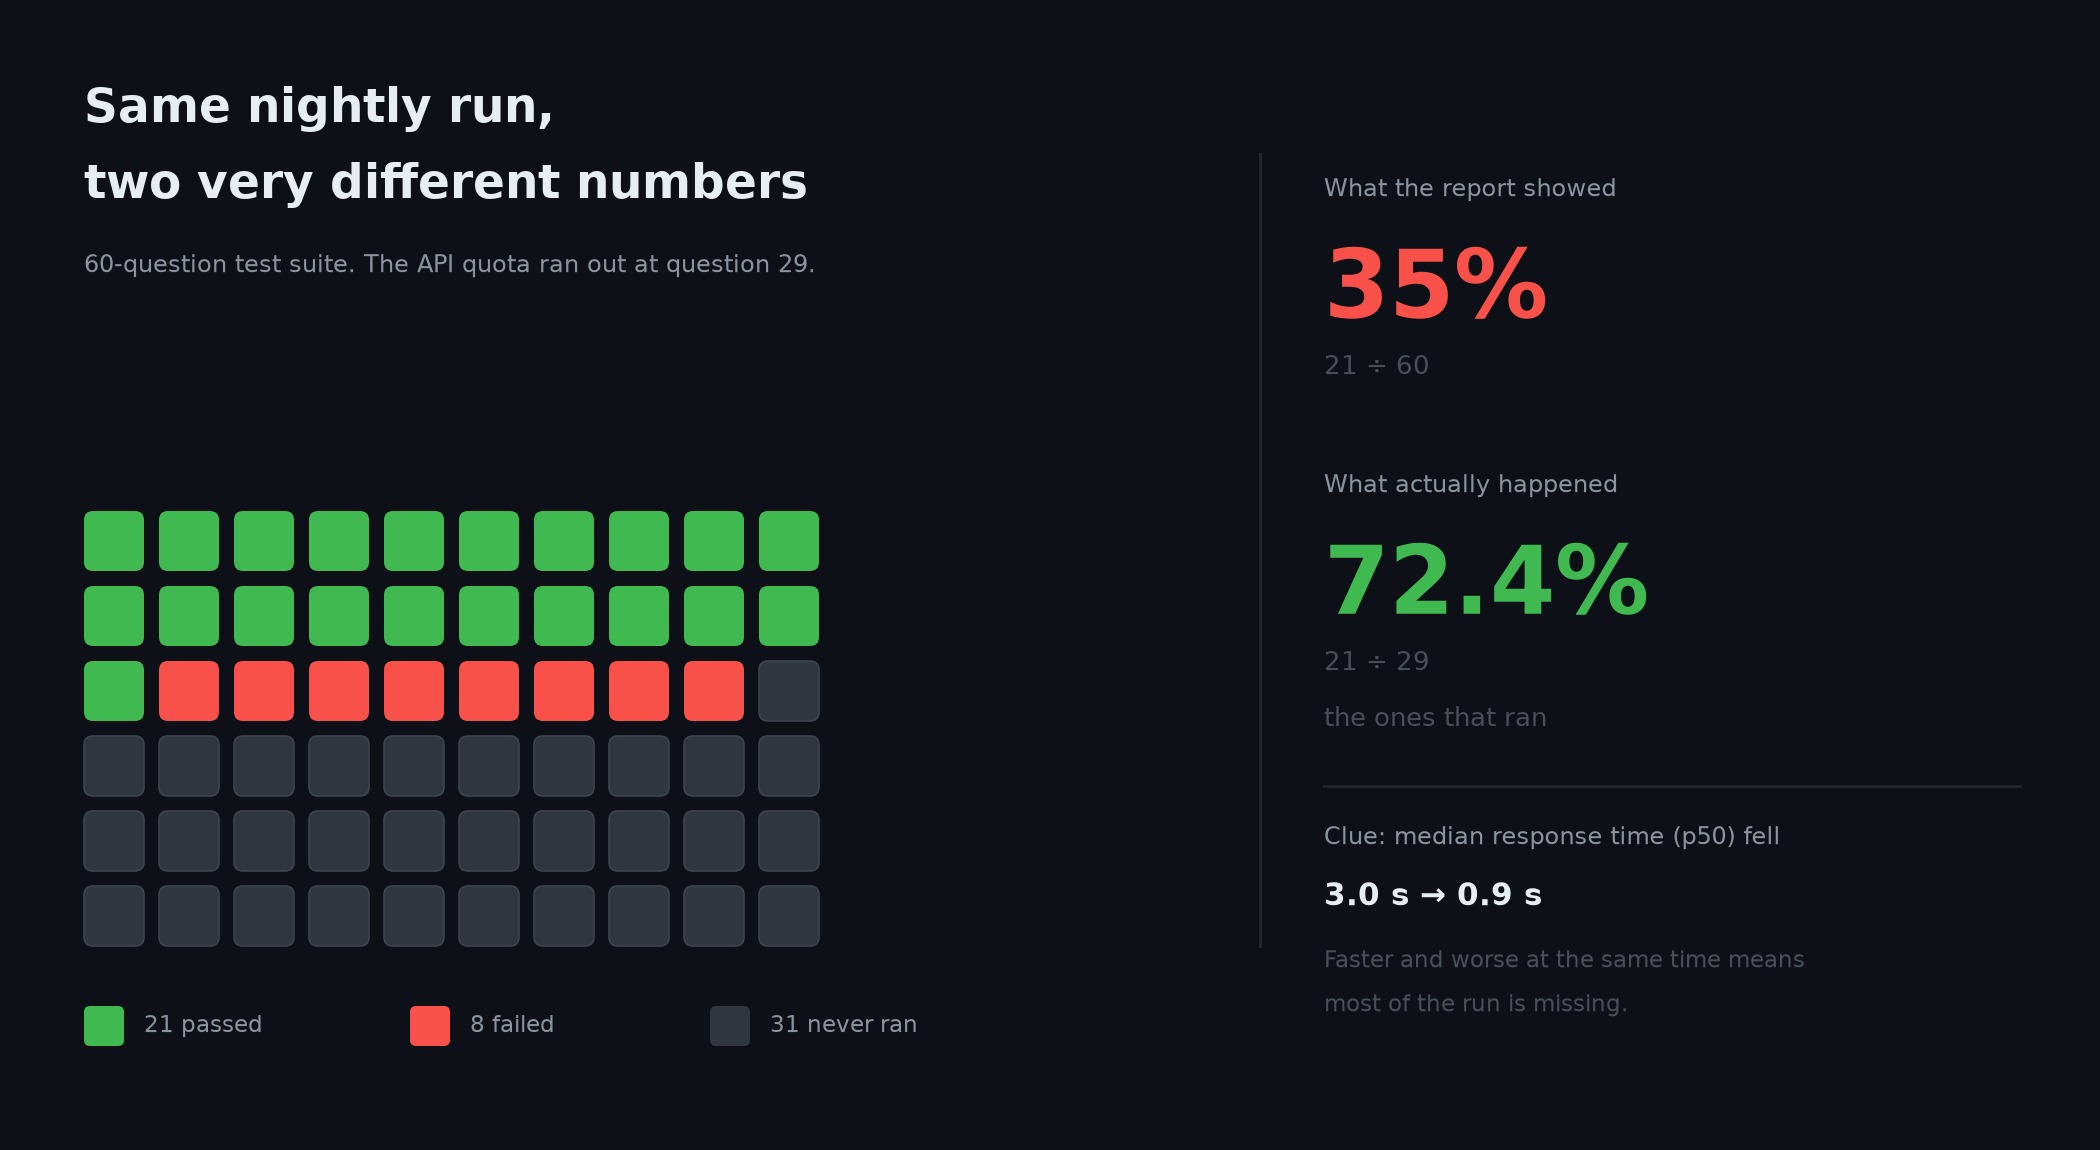
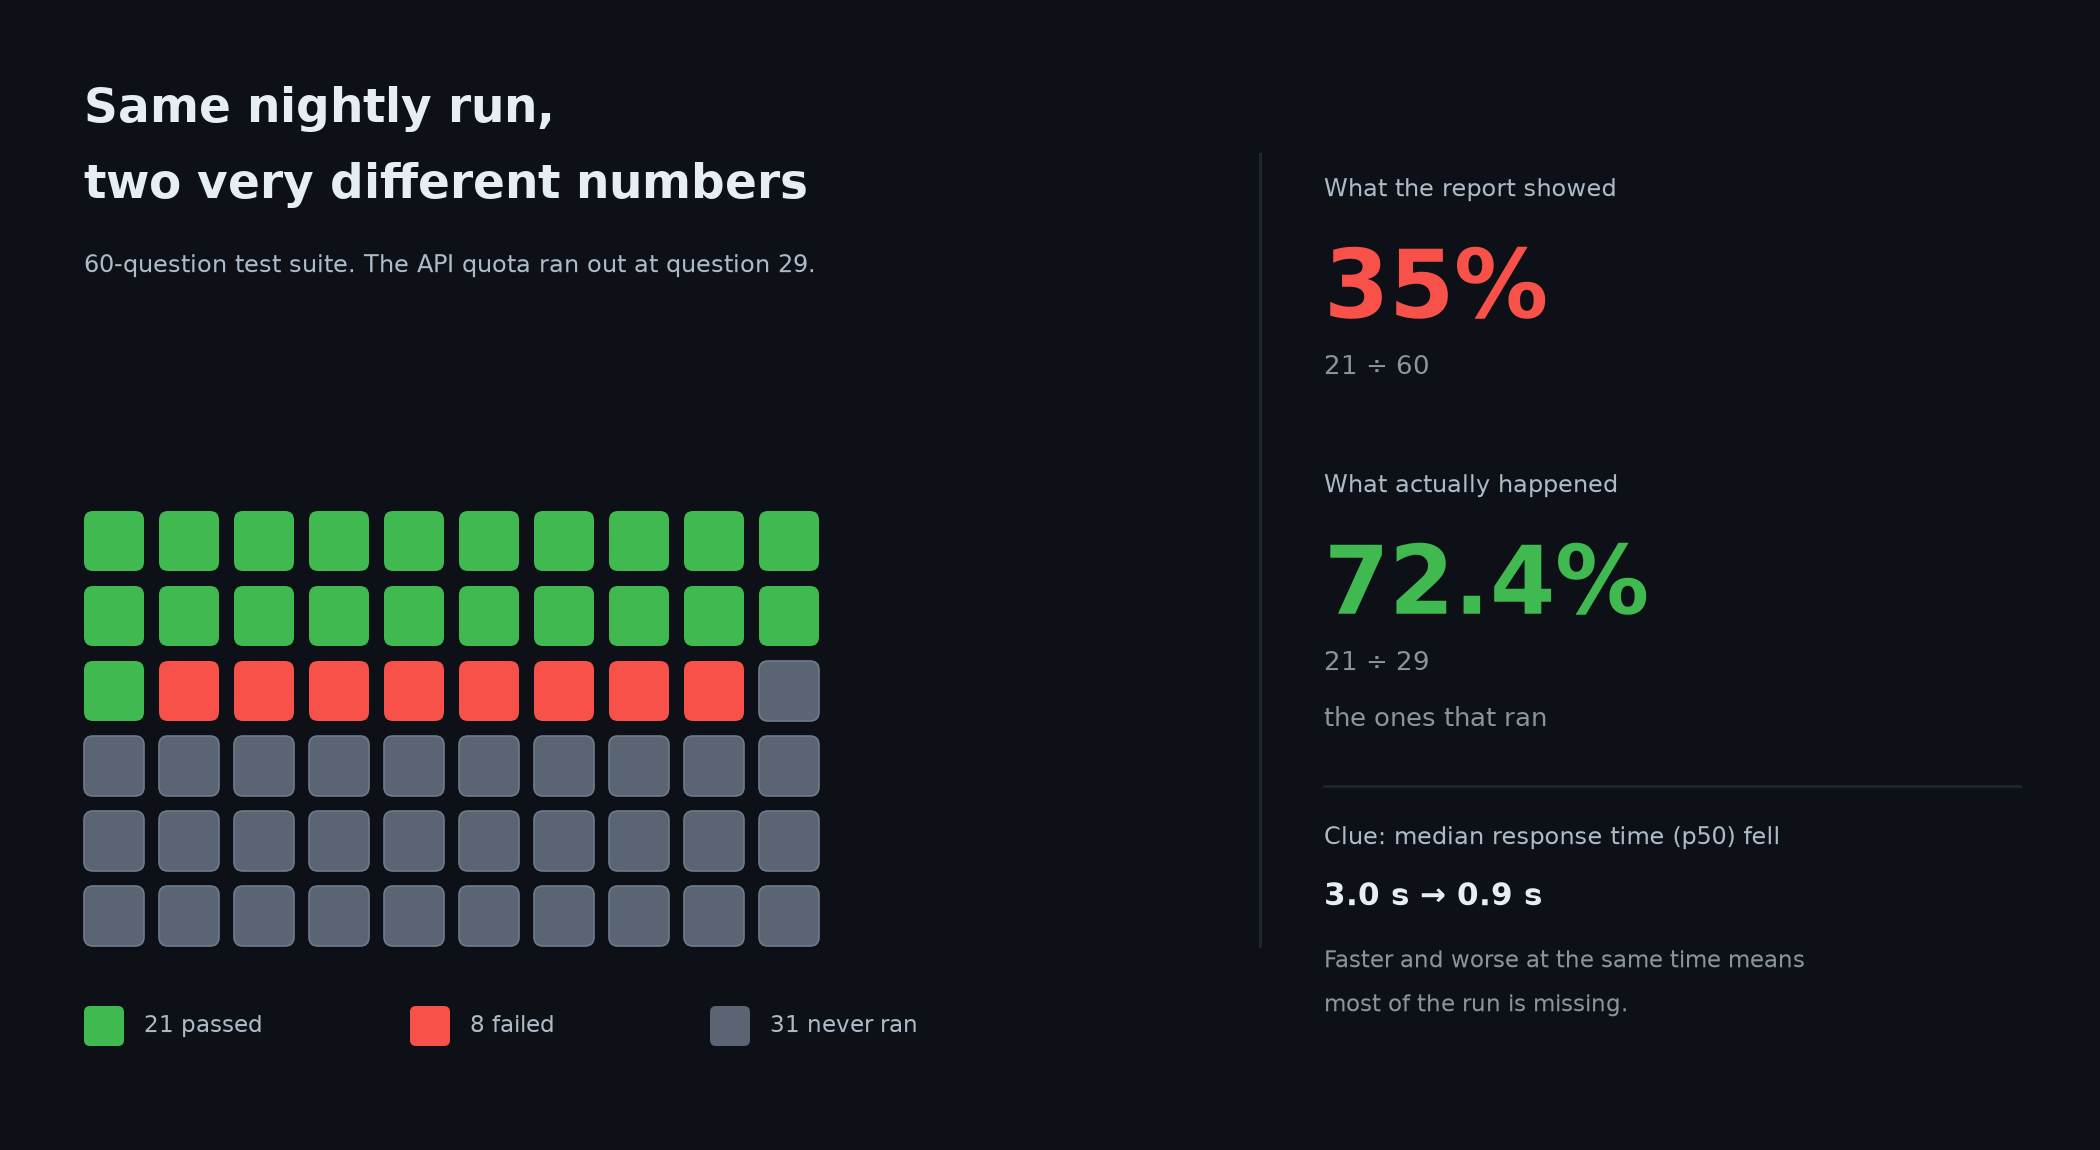
fix(posts): raise the grey contrast on the post-1 grid
#484f58 on #0d1117 was 2.0:1 and the never-ran cells at #30363d were 1.4:1 — the
squares read as holes in the card rather than as cells. Now #adbac7 (8.0:1),
#8b949e (5.4:1) and #5a6472 (3.2:1) for the cells.

Re-counted after the change: still 21 passed / 8 failed / 31 never ran.

diff --git a/scripts/make_post_grid.py b/scripts/make_post_grid.py
@@ -33,11 +33,11 @@ from matplotlib.patches import FancyBboxPatch  # noqa: E402
 
 BG = "#0d1117"
 INK = "#e6edf3"
-MUTED = "#8b949e"
-FAINT = "#484f58"
+MUTED = "#adbac7"
+FAINT = "#8b949e"
 GREEN = "#3fb950"
 RED = "#f85149"
-GREY = "#30363d"
+GREY = "#5a6472"
 RULE = "#21262d"
 
 COLS, ROWS = 10, 6
@@ -70,7 +70,7 @@ def build(outdir: str) -> str:
         x = x0 + col * (cell + gap)
         y = y0 + (ROWS - 1 - row) * (cell + gap)
         face = {"pass": GREEN, "fail": RED, "none": GREY}[kind]
-        edge = "none" if kind != "none" else "#3d444d"
+        edge = "none" if kind != "none" else "#6e7b8b"
         ax.add_patch(FancyBboxPatch((x, y), cell, cell,
                                     boxstyle="round,pad=0,rounding_size=0.045",
                                     facecolor=face, edgecolor=edge,
